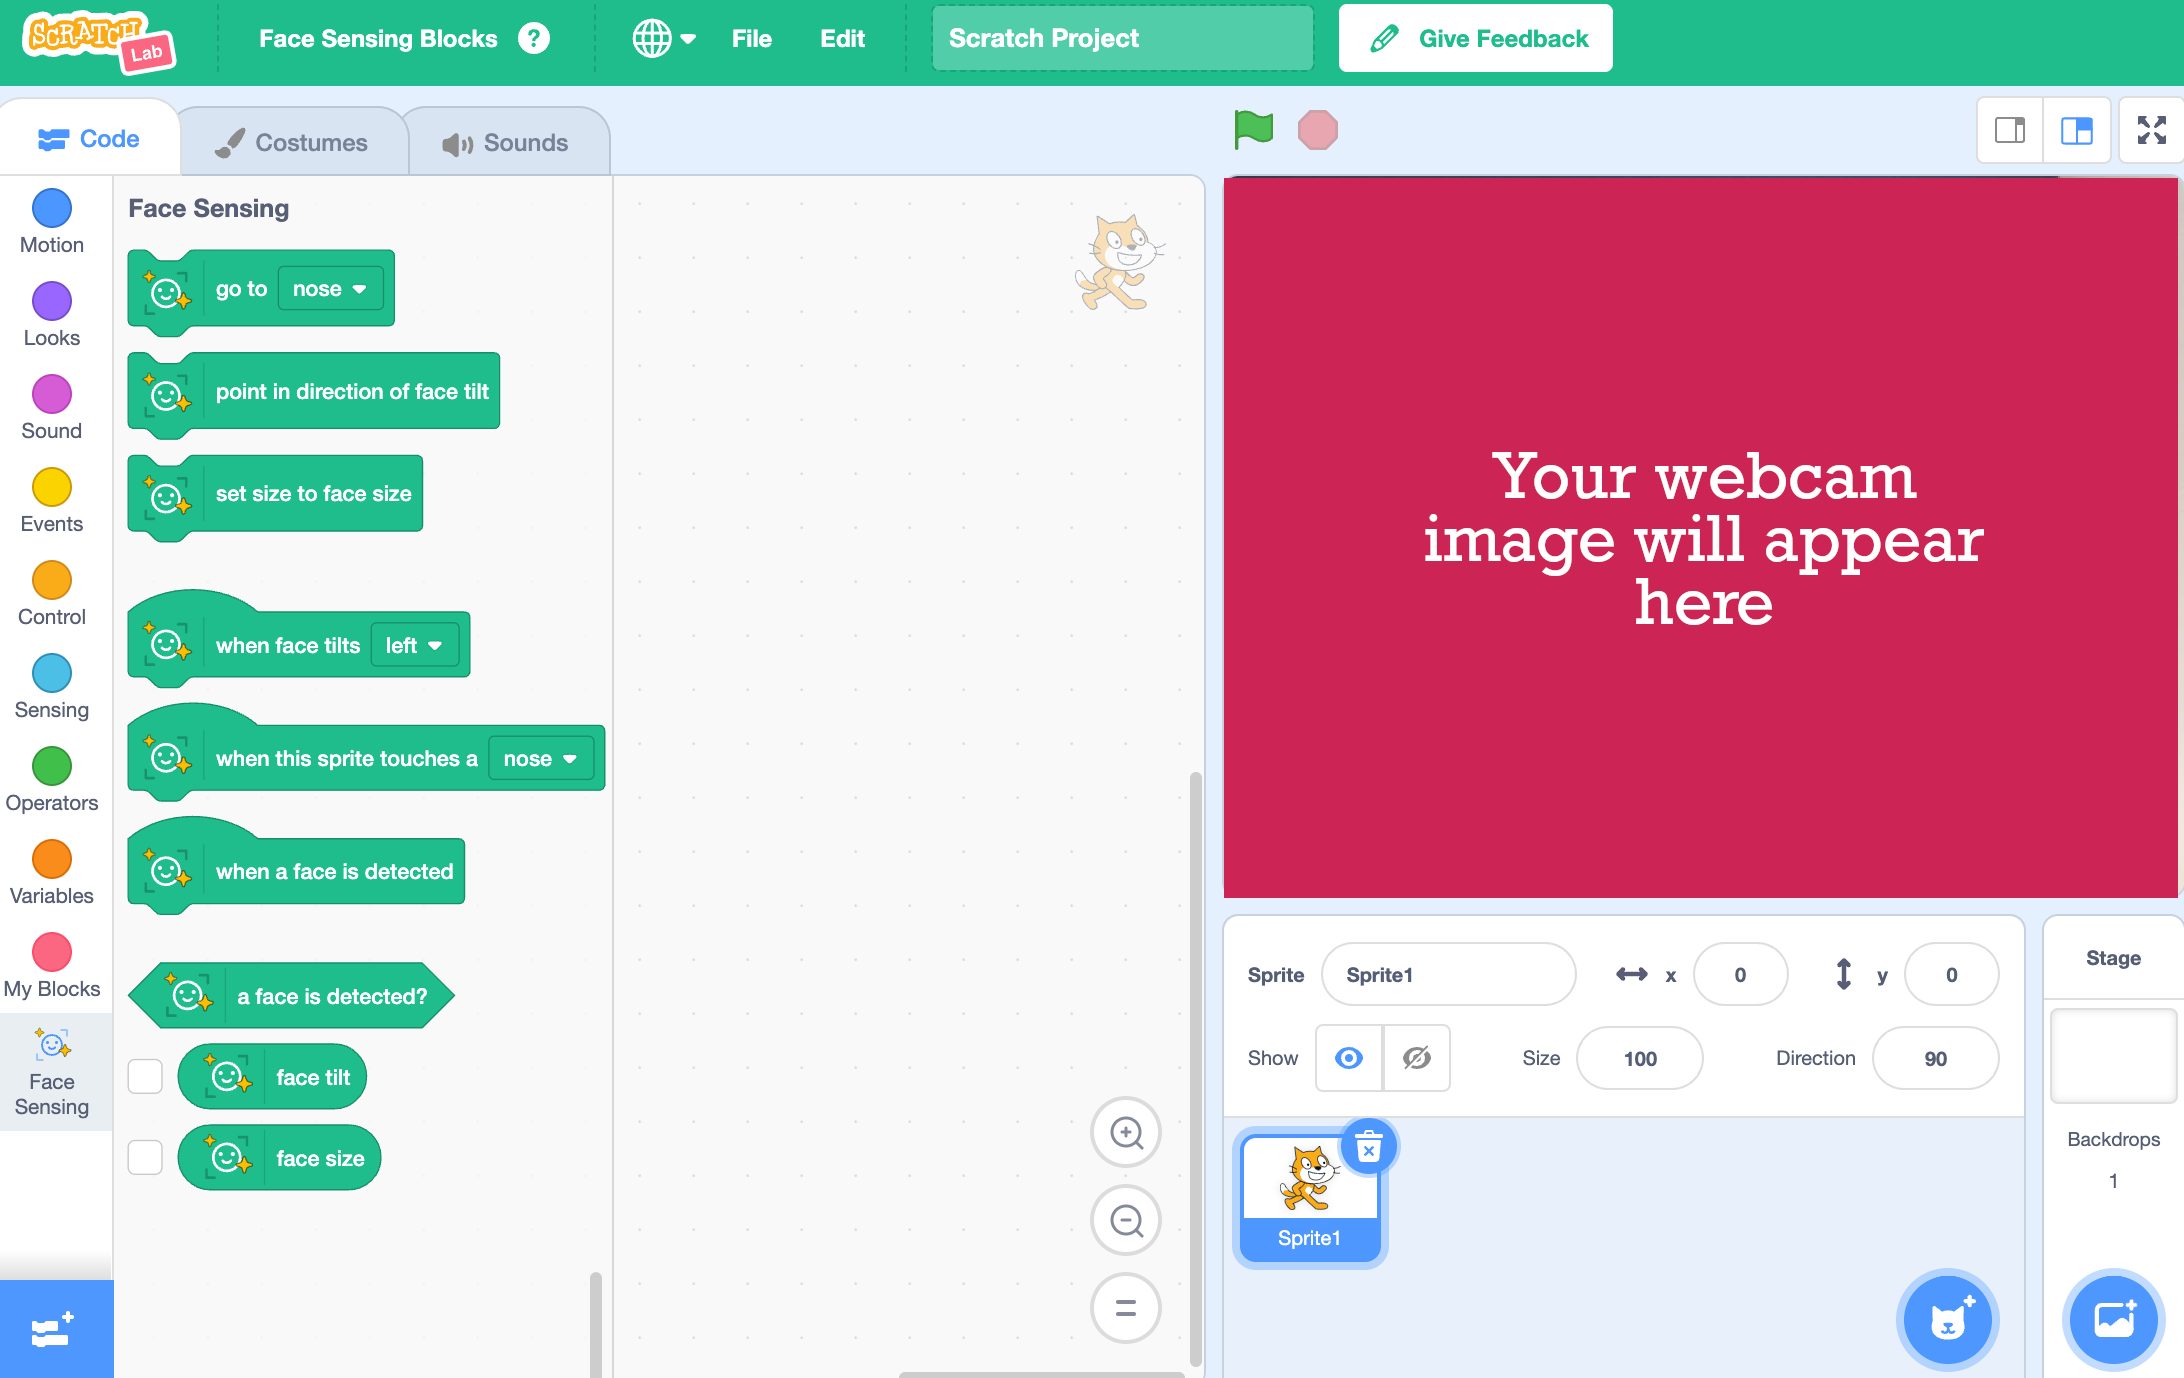
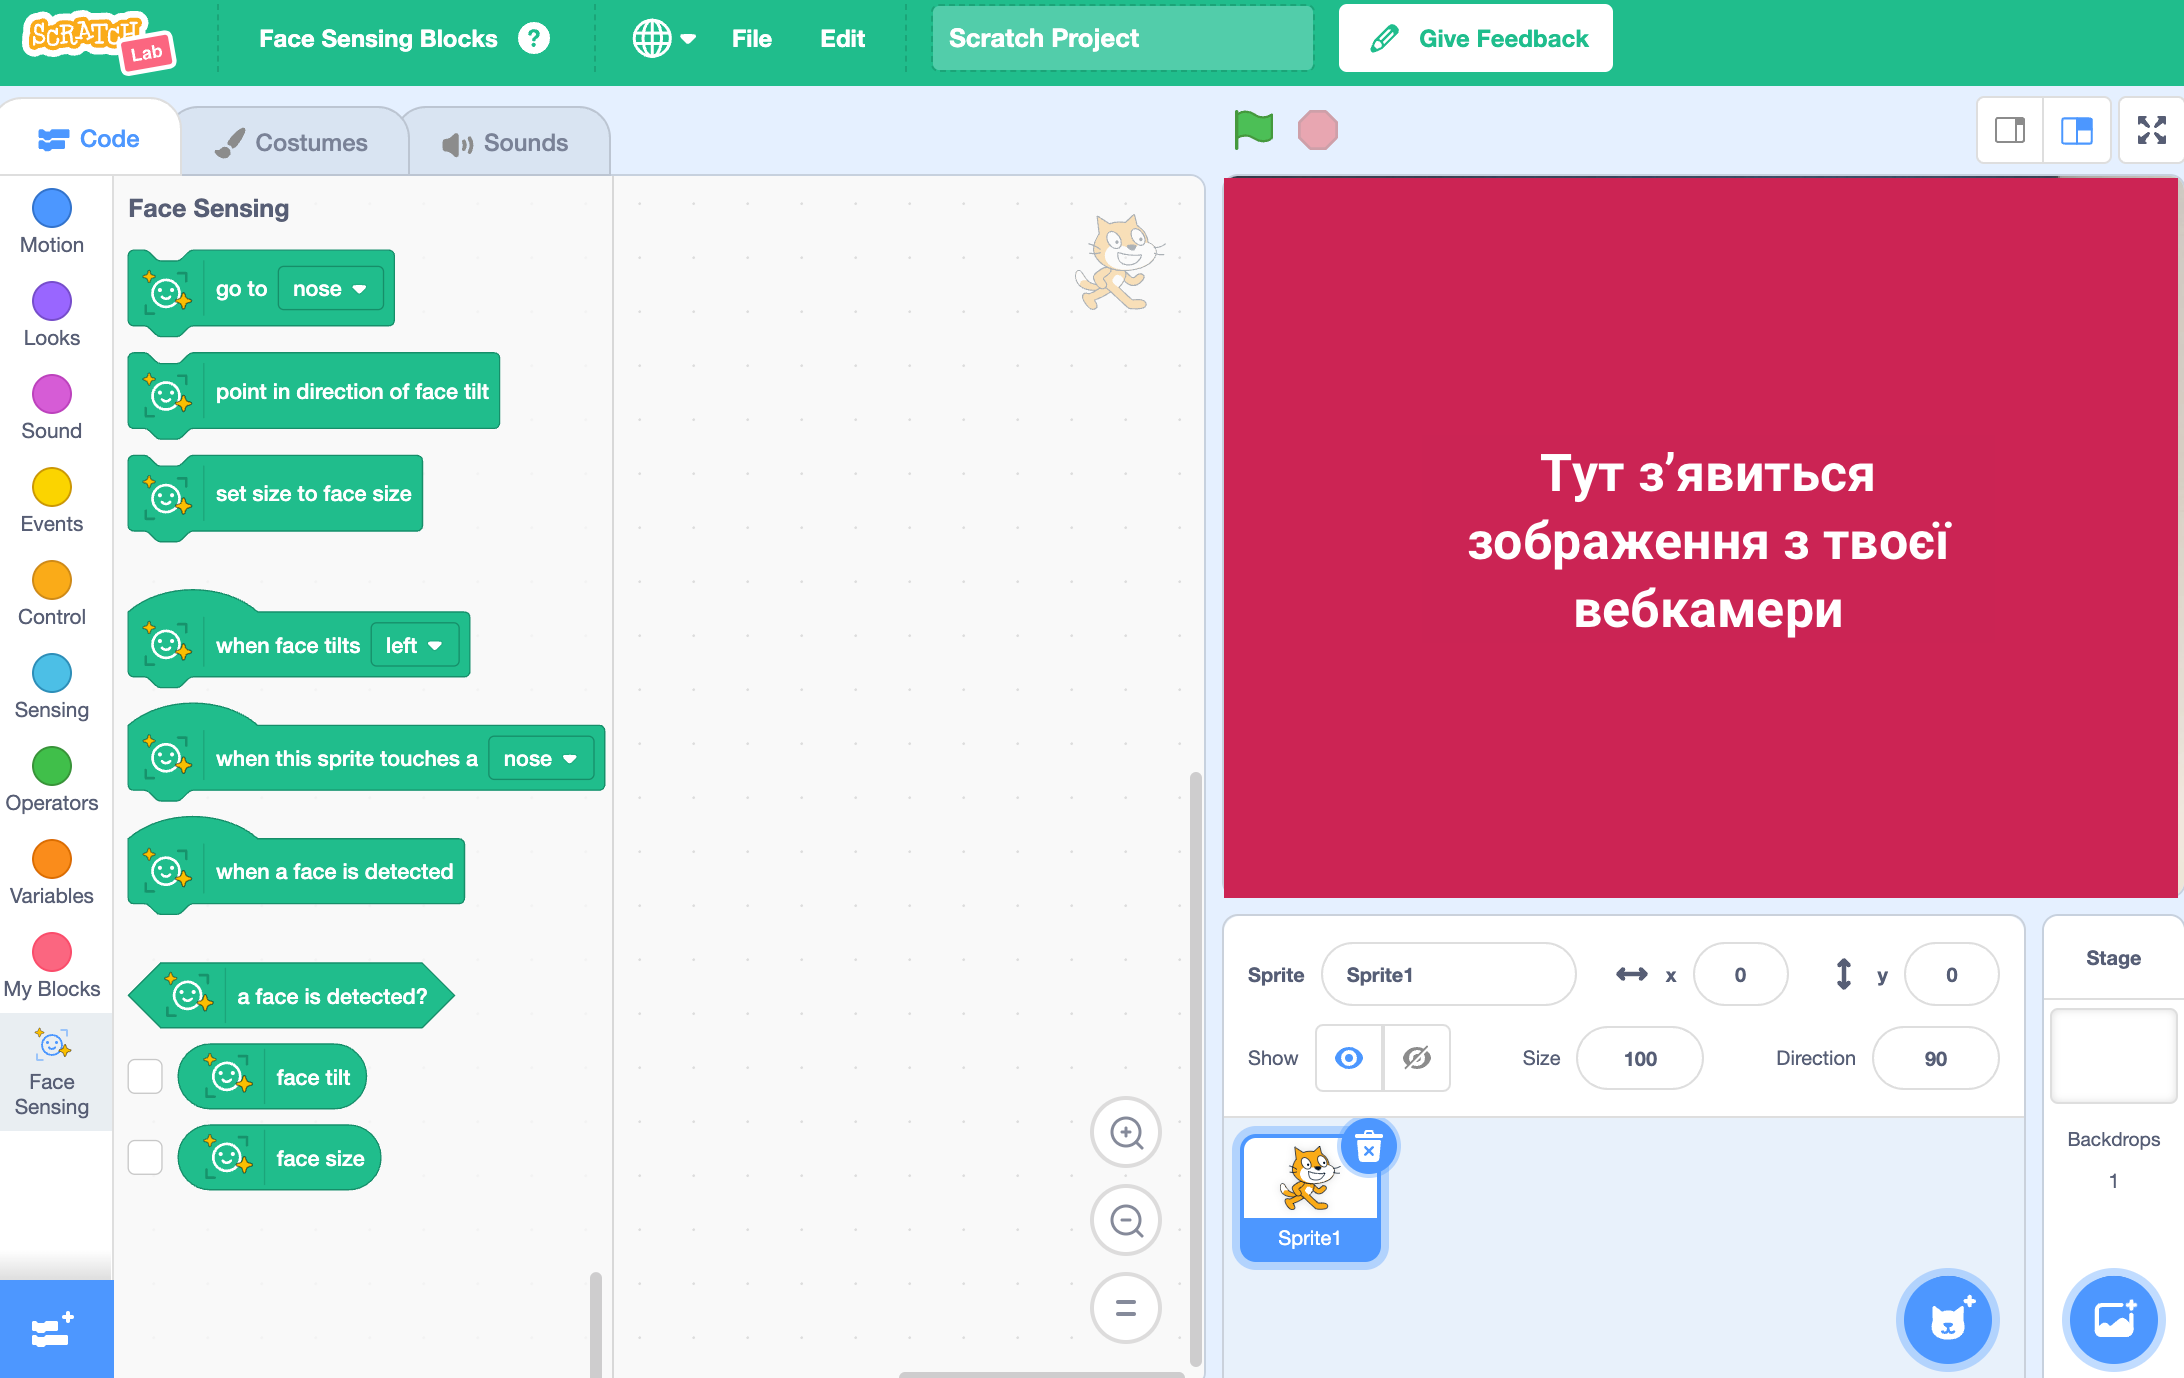
Fix translation
Dutch, Ukrainian

Changed region(s): [[0.6538, 0.312, 0.9029, 0.4681]]

diff --git a/uk-UA/step_2.md b/uk-UA/step_2.md
@@ -26,9 +26,9 @@
 
 --- task ---
 
-Якщо браузер запитає дозвіл на використання твоєї вебкамери, натисни **Дозволити під час кожного відвідування**.
+Якщо браузер запитає дозвіл на використання твоєї вебкамери, натисни **Дозволити під час відвідування сайту**.
 
-![Спливне вікно із запитом дозволу на використання вебкамери зі стрілкою, що вказує на «Дозволити під час кожного відвідування».](images/allow-webcam.png)
+![Спливне вікно із запитом дозволу на використання вебкамери зі стрілкою, що вказує на «Дозволити під час відвідування сайту».](images/allow-webcam.png)
 
 --- /task ---
 

diff --git a/nl-NL/step_6.md b/nl-NL/step_6.md
@@ -6,7 +6,7 @@ Er zijn nog veel meer machine learning- en AI-projecten in de [kunstmatige intel
 
 Dit project werd vertaald door vrijwilligers:
 
-iny van beuningen
+Iny van Beuningen
 Richard Brommers
 
 Dankzij vrijwilligers kunnen we mensen over de hele wereld de kans geven om in hun eigen taal te leren. Jij kunt ons helpen meer mensen te bereiken door vrijwillig te starten met vertalen - meer informatie op [rpf.io/translate](https://rpf.io/translate).

diff --git a/nl-NL/step_3.md b/nl-NL/step_3.md
@@ -18,7 +18,7 @@ Verwijder de **kat** sprite.
 
 Voeg een nieuwe sprite toe. Je kunt een bestaande sprite kiezen, een afbeelding uploaden of zelfs je eigen sprite tekenen! We hebben de **Cheesy Puffs** sprite gekozen.
 
-![Het 'Kies een Sprite' menu, met de optie 'Kies een Sprite' gemarkeerd.](images/kies-sprite.png)
+![Het 'Kies een Sprite' menu, met de optie 'Kies een Sprite' gemarkeerd.](images/choose-sprite.png)
 
 --- /task ---
 
